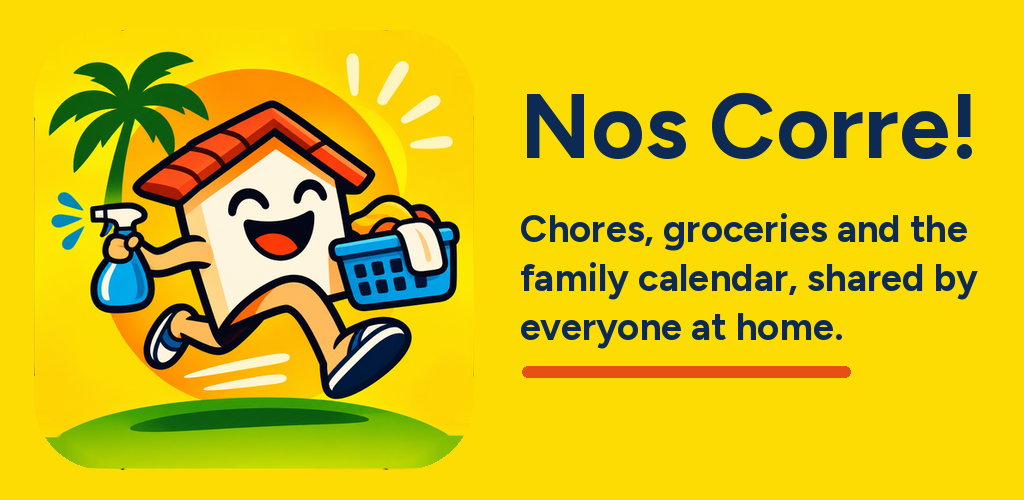
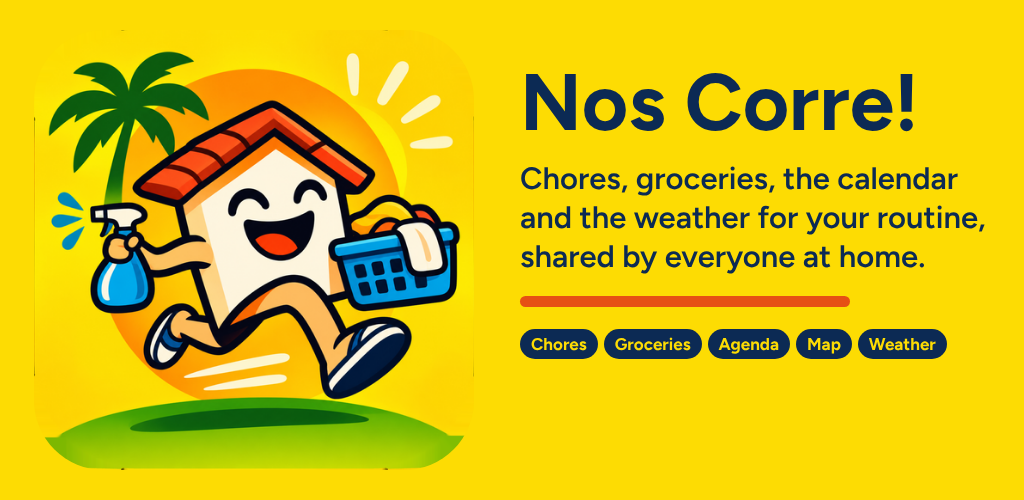
Play Store assets for the current app: new feature graphics (EN and pt-BR), listing texts rewritten, store screenshots renumbered (Agenda on the month, new Week ahead shot, room detail dropped)
Claude-Session: https://claude.ai/code/session_01R7XGUyzAEyEHcNAtcB5tck

Changed region(s): [[0.5, 0.42, 0.9688, 0.78], [0.5, 0.15, 0.9688, 0.39]]

diff --git a/feature/home/src/test/java/com/choreme/feature/home/WeekAheadScreenshotTest.kt b/feature/home/src/test/java/com/choreme/feature/home/WeekAheadScreenshotTest.kt
@@ -56,9 +56,33 @@ class WeekAheadScreenshotTest {
         }
     }
 
+    private val state get() = WeekAheadState(outlook(), members = listOf(ramon), myMemberId = "ramon", hasTrips = true, loading = false)
+
+    private fun shootStore(name: String) {
+        compose.setContent {
+            ChoreMeTheme(darkTheme = false, dynamicColor = false) {
+                Surface(Modifier.fillMaxSize()) {
+                    Column {
+                        HomeSubTabs(2) {}
+                        WeekAheadContent(state, onPlanTrips = {})
+                    }
+                }
+            }
+        }
+        compose.onRoot().captureRoboImage("build/outputs/roborazzi/$name.png")
+    }
+
+    // Google Play screenshots: 1080 x 1920, in English and in Baianês.
+    @Test
+    @Config(qualifiers = "en-w360dp-h640dp-xxhdpi")
+    fun storeEn() = shootStore("store-6-week-en")
+
+    @Test
+    @Config(qualifiers = "pt-rBR-w360dp-h640dp-xxhdpi")
+    fun storePt() = shootStore("store-6-week-pt")
+
     @Test
     fun weekAhead() {
-        val state = WeekAheadState(outlook(), members = listOf(ramon), myMemberId = "ramon", hasTrips = true, loading = false)
         compose.setContent {
             ChoreMeTheme(darkTheme = false, dynamicColor = false) {
                 Surface(Modifier.fillMaxSize()) {

diff --git a/feature/home/src/test/java/com/choreme/feature/home/AgendaTabScreenshotTest.kt b/feature/home/src/test/java/com/choreme/feature/home/AgendaTabScreenshotTest.kt
@@ -90,12 +90,12 @@ class AgendaTabScreenshotTest {
     @Test
     @Config(qualifiers = "en-w360dp-h640dp-xxhdpi")
     fun storeEn() {
-        shoot("store-6-agenda-en", state, dark = false)
+        shoot("store-5-agenda-en", state.copy(view = AgendaView.MONTH), dark = false)
     }
 
     @Test
     @Config(qualifiers = "pt-rBR-w360dp-h640dp-xxhdpi")
     fun storePt() {
-        shoot("store-6-agenda-pt", state, dark = false)
+        shoot("store-5-agenda-pt", state.copy(view = AgendaView.MONTH), dark = false)
     }
 }

diff --git a/feature/chores/src/test/java/com/choreme/feature/chores/RoomsTabScreenshotTest.kt b/feature/chores/src/test/java/com/choreme/feature/chores/RoomsTabScreenshotTest.kt
@@ -103,16 +103,4 @@ class RoomsTabScreenshotTest {
     fun storePt() {
         shoot("store-4-rooms-pt", state, dark = false)
     }
-
-    @Test
-    @Config(qualifiers = "en-w360dp-h640dp-xxhdpi")
-    fun storeDetailEn() {
-        shoot("store-5-room-en", state, dark = false, open = "bath1")
-    }
-
-    @Test
-    @Config(qualifiers = "pt-rBR-w360dp-h640dp-xxhdpi")
-    fun storeDetailPt() {
-        shoot("store-5-room-pt", state, dark = false, open = "bath1")
-    }
 }

diff --git a/docs/play-store/listing.md b/docs/play-store/listing.md
@@ -4,8 +4,10 @@ Paste these into Play Console, *Grow > Store presence > Main store listing* (def
 English) and add a translation for Portuguese (Brazil).
 
 Graphics: icon `../icon-512.png`; feature graphic `feature-graphic-en.png` and
-`feature-graphic-pt-BR.png` (1024x500). Phone screenshots: take 4 to 8 on a real phone (2:1 at
-most), in both languages, of Chores, Groceries, Agenda, Map and Family; light mode looks best.
+`feature-graphic-pt-BR.png` (1024x500). Phone screenshots: every release has `store-screenshots.zip`
+(1080 x 1920, English `-en` and Baianês `-pt`): 1 Home, 2 Chores, 3 Groceries, 4 Rooms, 5 Agenda,
+6 Week ahead, 7 Family. Upload them in that order. They are drawn from test data, so no real family
+shows. For the Map and the Settings tab take a real screenshot if you want them in the set.
 
 ## English (default)
 
@@ -13,33 +15,42 @@ most), in both languages, of Chores, Groceries, Agenda, Map and Family; light mo
 
 **Short description** (80 max):
 
-Chores, groceries and the family calendar, shared by everyone at home.
+Chores, groceries, calendar and weather for your family's routine.
 
 **Full description** (4000 max):
 
-Nos Corre! puts everything the household shares in one place, so nobody has to ask "who's doing it?" again.
+Nos Corre! puts everything the household shares in one place, so nobody has to ask "who's doing it?" again. And it checks the weather for the trips your family really makes.
 
-CHORES
-• Anyone can add what needs doing: a full sink, the bins, a leak. Anyone can grab it with "I'll do it", or "Me too" to do it together.
-• Give a chore to someone, make it repeat (every day, on certain days, every month on a day), set an end date, and mark urgent ones in red.
-• Harder chores are worth more points. Kids' finished chores wait for a parent's OK.
-• "Our home": a small pixel-art house and garden that blooms as chores get done and gets stormy when they pile up.
-• Reminders on your phone, a Sunday summary of the week, and "Well done!" when you finish.
+HOME
+• A little pixel-art house that lives on your screen: it shows the real weather and the real hour, the sun and moon cross the sky, it rains and snows, and now and then something happens (a bird lands, the cat passes, a rainbow). It dresses up for Halloween, Christmas, Easter, Carnival, São João and more.
+• The lights go on in its windows for the people who are at home. The mailbox flag goes up when an urgent chore is waiting.
+• The day at a glance: calendar events, your family's regular trips with their weather, and how many chores, room tasks and groceries are waiting.
+
+CHORES AND ROOMS
+• Anyone can add what needs doing. Anyone can grab it with "I'll do it", or "Me too" to do it together. Give a chore to someone, make it repeat, mark urgent ones in red.
+• Rooms with their own recurring tasks: when each one was last done and what is next.
+• Harder chores are worth more points (optional). Kids' finished chores wait for a parent's OK.
 
 GROCERIES
 • Tap what ran out; tick it off in the shop. Aisles in store order, "usuals" you can restock in one tap, and extra lists (pharmacy, hardware store, a trip).
 • Others see when someone is at the shop, so they can add what's missing.
 
+WEATHER FOR YOUR ROUTINE
+• Plan the regular trips (work, school, the gym) and Nos Corre! tells you what to expect for each: rain jacket, wind for the bike, sunscreen, leave earlier.
+• The week ahead, day by day, with a mark on the good days to dry the washing, and warnings for storms, poor air and pollen.
+• One "Good morning" notification at 7:00 with the weather, the calendar and the chores of the day.
+• It can notice your habits (the gym on Tuesdays) and offer to add them to the plan. That history stays on your phone.
+
 AGENDA AND MAP
 • Your phone's calendars next to the chores, and add events with alerts.
 • An optional map to see where the family is, with places like Home and School and arrival alerts. Sharing is off until you turn it on.
 
-FAMILY
+FAMILY AND SETTINGS
 • Messages to everyone, notes (the Wi-Fi password, when grandma arrives), away dates, and a home-screen widget.
-• Available in English and in Baianês (Brazilian Portuguese with Bahian slang).
+• Units in °C or °F, km/h, mph or m/s. Available in English and in Baianês (Brazilian Portuguese with Bahian slang).
 
 PRIVATE BY DESIGN
-No ads and no tracking. Only members of your family, approved by a parent, can see anything. Delete your data any time from the app.
+No ads and no tracking. Only members of your family, approved by a parent, can see anything. The weather service only receives an approximate position (about 1 km), with no name or account. Anonymous crash reports can be turned off in Settings. Delete your data any time from the app.
 
 ## Português (Brasil)
 
@@ -47,30 +58,39 @@ No ads and no tracking. Only members of your family, approved by a parent, can s
 
 **Descrição curta**:
 
-Os corres, a feira e a agenda da família, divididos com todo mundo de casa.
+Corres, feira, agenda e o tempo da rotina, divididos com a família.
 
 **Descrição completa**:
 
-O Nos Corre! junta tudo que a casa divide num lugar só, pra ninguém precisar perguntar "quem vai fazer?" de novo.
+O Nos Corre! junta tudo que a casa divide num lugar só, pra ninguém precisar perguntar "quem vai fazer?" de novo. E ainda olha o tempo dos trajetos que a família faz de verdade.
 
-OS CORRES
-• Qualquer um bota o que precisa fazer: a pia cheia, o lixo, um vazamento. Qualquer um pega com "Deixa comigo", ou "Eu também" pra fazer junto.
-• Dê um corre pra alguém, faça repetir (todo dia, em certos dias, todo mês num dia), marque a data final e deixe os urgentes em vermelho.
-• Corre mais pesado vale mais pontos. O que os guris terminam espera o OK de mainha ou painho.
-• "Nosso cafofo": uma casinha com jardim em pixel art que floresce quando os corres são feitos e fica com temporal quando acumulam.
-• Lembretes no celular, resumo da semana no domingo e um "Arretado!" quando você termina.
+CASA
+• Uma casinha em pixel art que vive na sua tela: mostra o tempo e a hora de verdade, o sol e a lua cruzam o céu, chove, neva, e de vez em quando acontece alguma coisa (um passarinho pousa, o gato passa, um arco-íris). Ela se veste pro Halloween, Natal, Páscoa, Carnaval, São João e mais.
+• As janelas acendem pra quem tá em casa. A bandeirinha da caixa de correio sobe quando tem corre urgente esperando.
+• O dia num olhar: compromissos, os trajetos de sempre da família com o tempo de cada um, e quantos corres, tarefas de cômodo e itens de feira estão esperando.
+
+CORRES E CÔMODOS
+• Qualquer um bota o que precisa fazer. Qualquer um pega com "Deixa comigo", ou "Eu também" pra fazer junto. Dê um corre pra alguém, faça repetir, deixe os urgentes em vermelho.
+• Cômodos com tarefas que se repetem: quando cada uma foi feita por último e qual é a próxima.
+• Corre mais pesado vale mais pontos (opcional). O que os guris terminam espera o OK de mainha ou painho.
 
 A FEIRA
 • Toque no que acabou; risque no mercado. Corredores na ordem da loja, "de sempre" que repõe num toque e listas extras (farmácia, loja de material, viagem).
 • A galera vê quando alguém tá no mercado e pode botar o que falta.
 
+O TEMPO DA ROTINA
+• Planeje os trajetos de sempre (trabalho, escola, academia) e o Nos Corre! avisa o que esperar de cada um: capa de chuva, vento pra bicicleta, protetor solar, sair mais cedo.
+• A semana que vem, dia a dia, com marca nos dias bons pra secar roupa, e avisos de tempestade, ar ruim e pólen.
+• Uma notificação de "Bom dia" às 7h com o tempo, a agenda e os corres do dia.
+• Ele percebe seus costumes (academia na terça) e oferece botar no plano. Esse histórico fica só no seu celular.
+
 AGENDA E MAPA
 • As agendas do seu celular junto dos corres, e dá pra criar eventos com aviso.
 • Um mapa opcional pra ver onde a família tá, com lugares como Casa e Escola e avisos de chegada. A localização só divide quando você ligar.
 
-FAMÍLIA
+FAMÍLIA E CONFIGURAÇÕES
 • Recados pra todo mundo, anotações (a senha do Wi-Fi, quando vovó chega), datas de viagem e um widget na tela inicial.
-• Em inglês ou em baianês (português do Brasil com gíria da Bahia).
+• Unidades em °C ou °F, km/h, mph ou m/s. Em inglês ou em baianês (português do Brasil com gíria da Bahia).
 
 PRIVADO DE VERDADE
-Sem anúncios e sem rastreio. Só entra quem é da família e foi aprovado por mainha ou painho. Dá pra apagar seus dados quando quiser, direto no app.
+Sem anúncios e sem rastreio. Só entra quem é da família e foi aprovado por mainha ou painho. O serviço de tempo só recebe uma posição aproximada (cerca de 1 km), sem nome nem conta. Relatórios de falha anônimos podem ser desligados em Configurações. Dá pra apagar seus dados quando quiser, direto no app.
